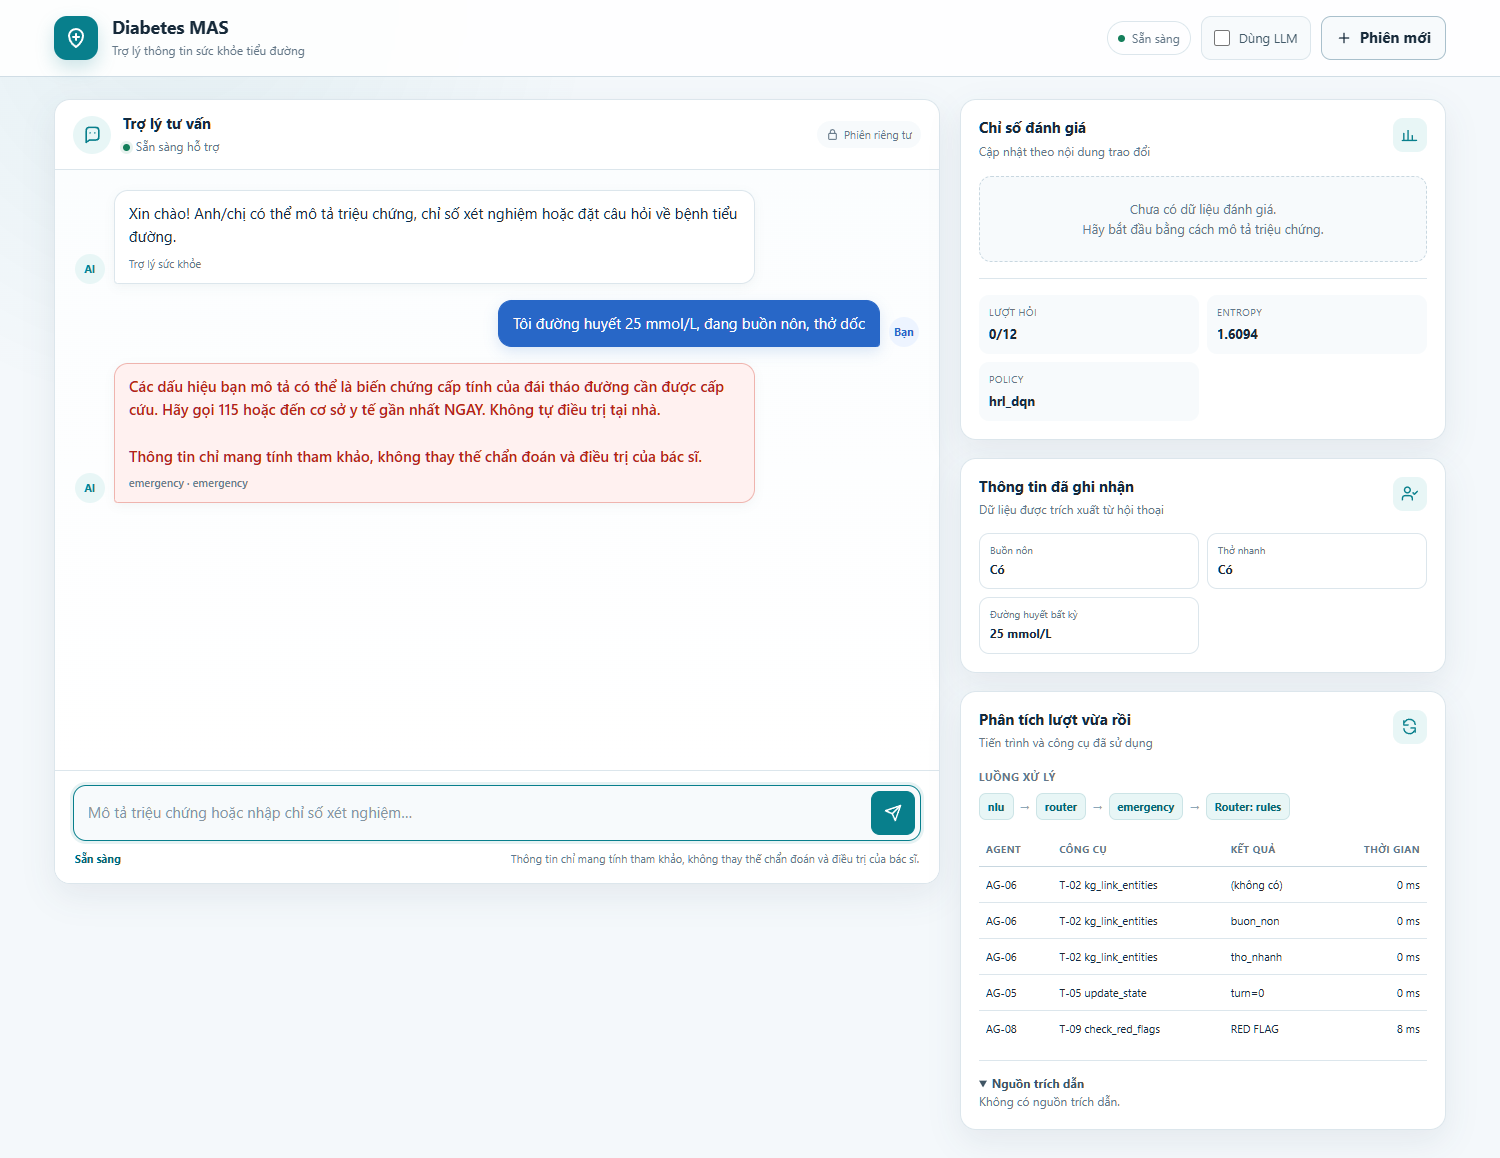
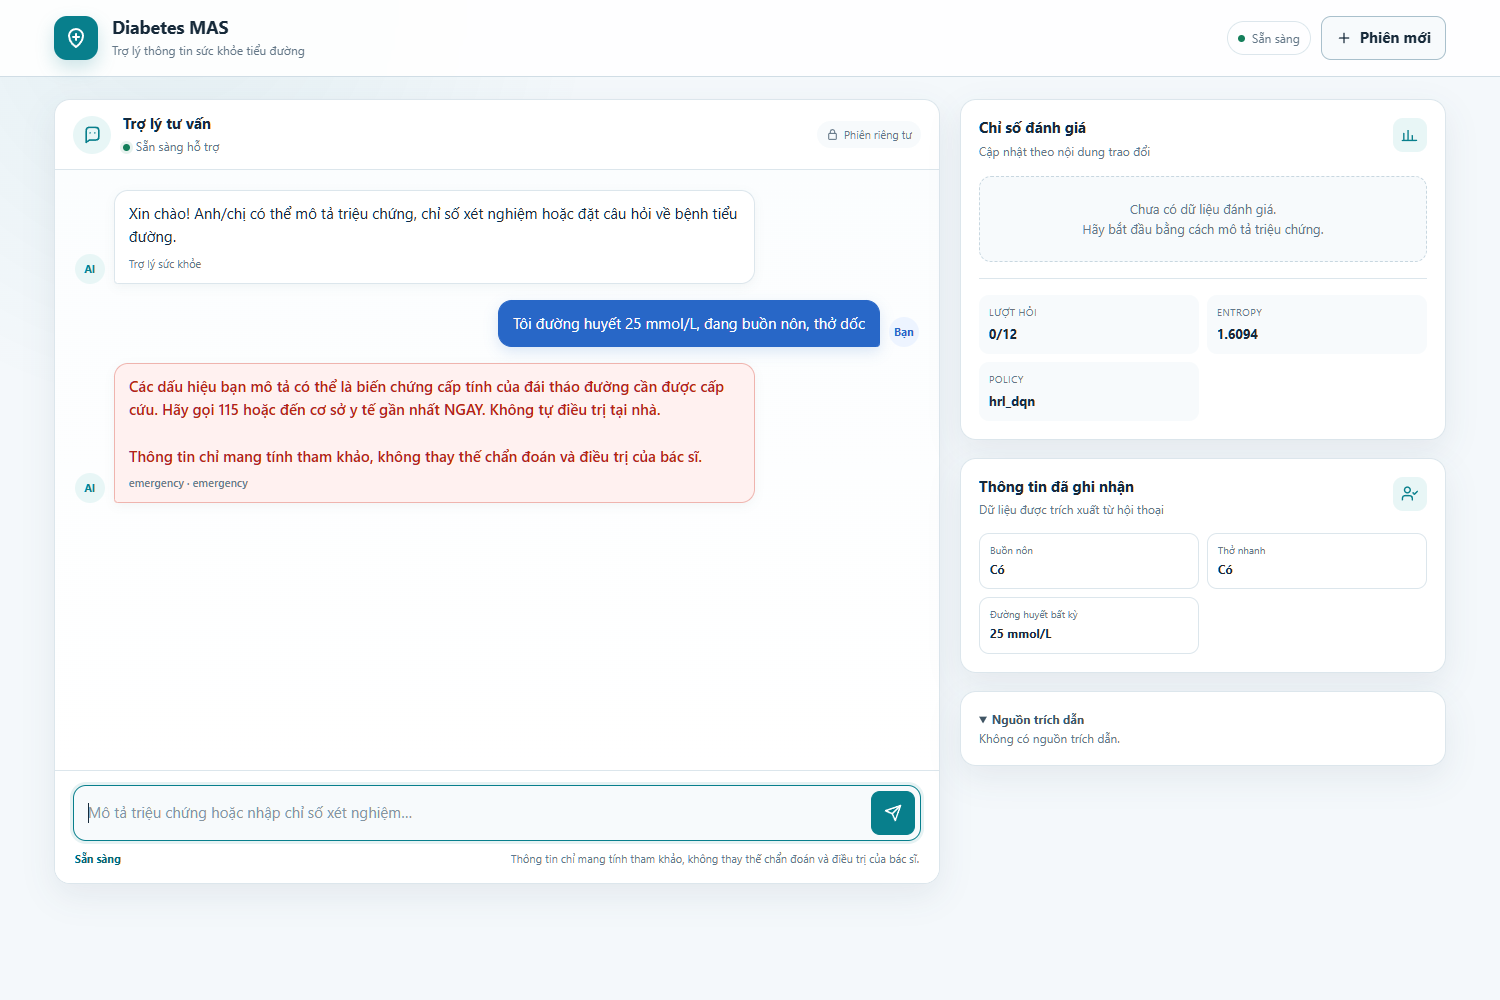
Web demo bản trình diễn: ẩn ô Dùng LLM và khung Phân tích lượt (nhấp tên để hiện; ?llm=0), nhãn Đái tháo đường Loại n; chụp lại ảnh; 09 §2.5 §3

diff --git a/diabetes_mas/src/diabetes_mas/api/static/index.html b/diabetes_mas/src/diabetes_mas/api/static/index.html
@@ -214,7 +214,9 @@
   tbody tr:last-child td { border-bottom:0; }
   td:last-child,th:last-child { text-align:right; white-space:nowrap; }
   .table-empty { color:var(--muted); text-align:center!important; }
+  [hidden] { display:none !important; }
   details { margin-top:14px; padding-top:13px; border-top:1px solid var(--line); }
+  .sources-card details { margin-top:0; padding-top:0; border-top:0; }
   summary { color:#405564; font-size:12px; font-weight:650; cursor:pointer; }
   #sources { color:var(--muted); font-size:12px; }
   #sources p { margin:10px 0 0; }
@@ -257,7 +259,7 @@
     <div class="brand-mark" aria-hidden="true">
       <svg viewBox="0 0 24 24" fill="none" stroke="currentColor" stroke-width="2" stroke-linecap="round" stroke-linejoin="round"><path d="M12 21s7-4.35 7-11a7 7 0 0 0-14 0c0 6.65 7 11 7 11Z"/><path d="M9 11h6M12 8v6"/></svg>
     </div>
-    <div class="brand-copy">
+    <div class="brand-copy" id="brand" title="Nhấp để hiện/ẩn chi tiết kỹ thuật">
       <h1>Diabetes MAS</h1>
       <p>Trợ lý thông tin sức khỏe tiểu đường</p>
     </div>
@@ -266,7 +268,7 @@
         <span class="health-dot" aria-hidden="true"></span>
         <span class="health-label">Đang kiểm tra</span>
       </span>
-      <label class="toggle" title="Bật hoặc tắt mô hình ngôn ngữ">
+      <label class="toggle" id="llmToggle" title="Bật hoặc tắt mô hình ngôn ngữ" hidden>
         <input type="checkbox" id="useLlm" aria-label="Dùng LLM" checked>
         <span>Dùng LLM</span>
       </label>
@@ -333,7 +335,13 @@
       </div>
       <div id="slots" class="empty-state">Chưa ghi nhận thông tin nào.</div>
     </section>
-    <section class="card side-card activity-card" aria-labelledby="activity-title">
+    <section class="card side-card sources-card" aria-labelledby="sources-title">
+      <details>
+        <summary id="sources-title">Nguồn trích dẫn</summary>
+        <div id="sources">Chưa có nguồn trích dẫn.</div>
+      </details>
+    </section>
+    <section class="card side-card activity-card" id="activityCard" aria-labelledby="activity-title" hidden>
       <div class="section-heading">
         <div>
           <h2 id="activity-title">Phân tích lượt vừa rồi</h2>
@@ -353,15 +361,19 @@
           <tbody id="tools"><tr><td class="table-empty" colspan="4">Chưa có dữ liệu</td></tr></tbody>
         </table>
       </div>
-      <details>
-        <summary>Nguồn trích dẫn</summary>
-        <div id="sources">Chưa có nguồn trích dẫn.</div>
-      </details>
     </section>
   </aside>
 </main>
 <script>
-const NAMES = {KHONG_DTD:"Không ĐTĐ",TIEN_DTD:"Tiền ĐTĐ",DTD_TIP_1:"ĐTĐ típ 1",DTD_TIP_2:"ĐTĐ típ 2",DTD_THAI_KY:"ĐTĐ thai kỳ"};
+const NAMES = {KHONG_DTD:"Không đái tháo đường",TIEN_DTD:"Tiền đái tháo đường",DTD_TIP_1:"Đái tháo đường Loại 1",
+  DTD_TIP_2:"Đái tháo đường Loại 2",DTD_THAI_KY:"Đái tháo đường thai kỳ"};
+// Đổi chữ trên lời hệ thống trả lời (KHÔNG áp dụng cho panel nguồn — nguyên văn trích dẫn giữ nguyên).
+// "ĐTĐ" → "Đái tháo đường" (đầu câu) / "đái tháo đường"; "típ" (cả từ, không phải chuỗi con) → "Loại".
+function vn(s) {
+  return String(s == null ? "" : s).normalize("NFC")
+    .replace(/ĐTĐ/g,(m,off,str) => (off === 0 || /[.:!?\n]\s*$/.test(str.slice(0,off))) ? "Đái tháo đường" : "đái tháo đường")
+    .replace(/(^|[^\p{L}\p{M}])[Tt]íp(?![\p{L}\p{M}])/gu,"$1Loại");
+}
 const SLOT_NAMES = {
   tuoi:"Tuổi",bmi:"BMI",gioi_tinh:"Giới tính",hut_thuoc:"Hút thuốc",benh_tim:"Bệnh tim",
   dang_mang_thai:"Mang thai",uong_nhieu:"Khát / uống nhiều",tieu_nhieu:"Tiểu nhiều",sut_can:"Sụt cân",
@@ -373,7 +385,7 @@ const SLOT_NAMES = {
   dau_cach_hoi:"Đau cách hồi chi dưới",day_bung_cham_tieu:"Đầy bụng, chậm tiêu",
   loet_ban_chan:"Loét bàn chân",te_bi_ban_chan:"Tê bì bàn chân",
   it_van_dong:"Ít vận động",tang_huyet_ap:"Tăng huyết áp",roi_loan_lipid:"Rối loạn mỡ máu",
-  tien_su_gia_dinh_dtd:"Gia đình có người mắc ĐTĐ",tien_su_dtd_thai_ky:"Tiền sử ĐTĐ thai kỳ",
+  tien_su_gia_dinh_dtd:"Gia đình có người mắc đái tháo đường",tien_su_dtd_thai_ky:"Tiền sử đái tháo đường thai kỳ",
   benh_tu_mien:"Bệnh tự miễn khác",buong_trung_da_nang:"Buồng trứng đa nang",
   bmi_tu_23:"BMI ≥ 23",tuoi_duoi_30:"Khởi phát dưới 30 tuổi",tuoi_tu_45:"Tuổi ≥ 45"
 };
@@ -583,7 +595,7 @@ $("form").addEventListener("submit",async (event) => {
     });
     if (!response.ok) throw new Error(await apiError(response));
     const result = await response.json();
-    bot(result.reply,(result.intent || "Phản hồi") + " · " + result.stage,result.stage === "emergency" ? "emergency" : "");
+    bot(vn(result.reply),(result.intent || "Phản hồi") + " · " + result.stage,result.stage === "emergency" ? "emergency" : "");
     render(result);
   } catch (error) {
     if (error.name === "AbortError" && !timedOut) return;
@@ -600,6 +612,19 @@ $("form").addEventListener("submit",async (event) => {
     }
   }
 });
+
+// Bản trình diễn: ẩn ô "Dùng LLM" (mặc định bật) và khung "Phân tích lượt vừa rồi".
+// Hiện lại cả hai: nhấp vào tên "Diabetes MAS" (nhấp lần nữa để ẩn) hoặc mở URL có ?chitiet.
+// Dự phòng tắt LLM: mở http://localhost:8000/?llm=0 (hoặc hiện ô rồi bỏ chọn).
+function toggleDetails(force) {
+  const show = force === undefined ? $("activityCard").hidden : force;
+  $("activityCard").hidden = !show;
+  $("llmToggle").hidden = !show;
+}
+const params = new URLSearchParams(window.location.search);
+if (params.get("llm") === "0") $("useLlm").checked = false;
+if (params.has("chitiet")) toggleDetails(true);
+$("brand").addEventListener("click",() => toggleDetails());
 
 $("newBtn").addEventListener("click",() => {
   newSession().catch(() => bot("Không thể tạo phiên mới. Vui lòng thử lại.","Lỗi kết nối","emergency"));

diff --git a/docs/09_DEMO_SCRIPT.md b/docs/09_DEMO_SCRIPT.md
@@ -4,7 +4,13 @@
 > **Giai đoạn:** 9 · **Cập nhật:** 2026-11-12 (v2: chạy thử trên máy demo, Windows 11 / 16 GB RAM / chỉ CPU)
 > Tổng thời lượng dự kiến: 15 phút.
 
-> **Trạng thái triển khai (2026-11-12): ✅ đã chạy thử** — phản hồi ở §2 lấy từ lần chạy thử với `use_llm=false` (luật + câu mẫu). Bật Qwen thì câu chữ hỏi/giải thích tự nhiên hơn nhưng kết luận, xác suất và nguồn giống nhau. ✅ Đã chạy thử có bấm giờ qua API cả hai chế độ (§2.6). ⏳ Còn chạy thử trên giao diện web mới và quay video dự phòng.
+> **Trạng thái triển khai (2026-11-12): ✅ đã chạy thử** — phản hồi ở §2 lấy từ lần chạy thử với `use_llm=false` (luật + câu mẫu). Bật Qwen thì câu chữ hỏi/giải thích tự nhiên hơn nhưng kết luận, xác suất và nguồn giống nhau. ✅ Đã chạy thử có bấm giờ qua API cả hai chế độ (§2.6). ✅ Đã chạy thử trên giao diện web mới với Qwen (§2.6.1, §2.5). ⏳ Còn quay video dự phòng.
+>
+> **Giao diện trình diễn (22:30, theo yêu cầu người dùng):**
+> - Ô "Dùng LLM" và khung "Phân tích lượt vừa rồi" (luồng agent + bảng tool call) được ẩn. LLM luôn bật.
+> - **Nhấp vào tên "Diabetes MAS"** ở góc trái trên để hiện lại cả hai; nhấp lần nữa để ẩn.
+> - Nhãn giao diện và lời chat hiển thị "Đái tháo đường Loại 2" thay cho "ĐTĐ típ 2". Panel **Nguồn trích dẫn** (nay là khung riêng, luôn hiện) giữ **nguyên văn** nguồn, nên vẫn ghi "típ".
+> - Backend, API và log không đổi.
 
 ---
 
@@ -56,7 +62,7 @@ Mở sẵn các tab: Web demo `http://localhost:8000` · Neo4j Browser `http://l
 | 6 | 2′ | Đa agent phân cấp: Main + 4 Work-Agent, reward entropy, luật điều phối "chưa có xét nghiệm thì chưa kết luận" | Giải thích kiến trúc đa agent | `02_AGENT_DESIGN.md` mục 1–2, 6 |
 | 7 | 2′ | Demo tư vấn: TC-20, TC-22, TC-23 (§2.2) | Demo KB + RAG | Web demo, mở panel "nguồn" và "tool call" |
 | 8 | 1′ | RAG giao tiếp với KB: liên kết thực thể → graph fact → vector + chunk MENTIONS → `enough` | Cơ chế RAG ↔ KB | `06_KB_RAG_INTEGRATION.md` mục 2 + `08_EVALUATION.md` §3 (biểu đồ ngưỡng) |
-| 9 | 2′ | Demo chẩn đoán: Story 1 (§2.1), rồi ca cấp cứu (§2.3) | Demo end-to-end | Web demo, chỉ bảng slot, xác suất, entropy, log tool |
+| 9 | 2′ | Demo chẩn đoán: Story 1 (§2.1), rồi ca cấp cứu (§2.3) | Demo end-to-end | Web demo, chỉ bảng slot, xác suất, entropy (khung "Chỉ số đánh giá"), log tool (**nhấp "Diabetes MAS"** để hiện bảng tool call, có dòng T-15) |
 | 10 | 1′ | Mô hình: layer, epoch, đường học, bảng baseline | Mô hình bổ sung | `09_MODEL_NOTES.md`, `08_EVALUATION.md` §4 (`assets/curve_hrl.png`) |
 
 ## 2. Câu nói mẫu và phản hồi đã chạy thử
@@ -91,12 +97,20 @@ Mở sẵn các tab: Web demo `http://localhost:8000` · Neo4j Browser `http://l
 
 "Tôi đang mang thai 28 tuần, đường huyết lúc đói 5,3 mmol/L, có bị tiểu đường thai kỳ không?" ⇒ hỏi tuổi, chiều cao/cân nặng (không hỏi giới tính), rồi **~6 câu triệu chứng/nguy cơ** (trả lời "Không ạ") ⇒ "Đái tháo đường thai kỳ (95%) … Glucose huyết tương lúc đói = 5,3 (ngưỡng ≥ 5,1 mmol/L, nguồn VMC-0003)". Giới hạn đã biết: ca thai kỳ cần nhiều lượt (`08` §7).
 
-### 2.5 Ảnh minh họa (chụp lại 2026-11-12 20:45 với giao diện mới, chế độ không LLM, `diabetes_mas/scripts/shots.js` bằng puppeteer: `NODE_PATH=<node_modules có puppeteer> node scripts/shots.js ../docs/assets --no-llm`)
+### 2.5 Ảnh minh họa (chụp lại 2026-11-12 22:35 với giao diện trình diễn)
+
+Ảnh chụp bằng Chrome headless (puppeteer, script kiểm tra ở scratchpad phiên này):
+
+- Story 1 chạy với Qwen.
+- TC-20 và TC-34 chạy với `?llm=0`.
+
+`scripts/shots.js` cũ bấm vào ô `#useLlm`, nay ô này đã ẩn. Vì vậy chỉ chạy được khi không truyền `--no-llm`.
 
 | Ảnh | Nội dung |
 |---|---|
-| `assets/demo_story1.png` | Story 1 (giao diện mới 20:45): khung chat bên trái; bên phải **Chỉ số đánh giá** (xác suất 5 lớp — típ 2 63 %, lượt hỏi 1/12, entropy 0,66, nguy cơ DL 100 %, policy `hrl_dqn`), **Thông tin đã ghi nhận** (slot: uống nhiều, tiểu nhiều, sụt cân, 52 tuổi, BMI 28,7, nam, HbA1c 7,1 %), **Phân tích lượt vừa rồi** (luồng `nlu → router → tracker → main`, bảng tool call có T-08, **T-15**, T-03, T-04, T-09) và **Nguồn trích dẫn** [1]–[10] |
-| `assets/demo_tuvan.png` | TC-20: 4 tiêu chuẩn chẩn đoán kèm `[n]` (QĐ 3280, Vinmec), luồng `nlu → router → consult`, T-04 `enough=True`, panel nguồn |
+| `assets/demo_story1.png` | Story 1, giao diện trình diễn. Bên trái là khung chat, kết luận "Đái tháo đường Loại 2 (63%)". Bên phải gồm: **Chỉ số đánh giá** (xác suất 5 lớp — Loại 2 63 %, Loại 1 37 %; lượt hỏi 1/12; entropy 0,66; nguy cơ DL 100 %; policy `hrl_dqn`), **Thông tin đã ghi nhận** (slot: uống nhiều, tiểu nhiều, sụt cân, 52 tuổi, BMI 28,7, nam, HbA1c 7,1 %) và **Nguồn trích dẫn** [1]–[10] (nguyên văn) |
+| `assets/demo_story1_chitiet.png` | Cùng Story 1 sau khi nhấp "Diabetes MAS". Hiện thêm ô "Dùng LLM" và khung **Phân tích lượt vừa rồi**: luồng `nlu → router → tracker → main`, bảng tool call có T-08, **T-15**, T-03, T-04, T-09 |
+| `assets/demo_tuvan.png` | TC-20 (`?llm=0`): tiêu chuẩn chẩn đoán kèm `[n]` (QĐ 3280, Vinmec), panel nguồn |
 | `assets/demo_capcuu.png` | TC-34: cảnh báo cấp cứu (khung đỏ) ngay lượt đầu; slot Buồn nôn, Thở nhanh, Đường huyết bất kỳ 25 mmol/L; T-09 `RED FLAG` |
 | `assets/kb_dtd_tip2.png`, `assets/kb_schema.png` | Thay ảnh Neo4j Browser nếu không mở được (vẽ từ dữ liệu Neo4j thật, `devtools/plot_kb`) |
 
@@ -151,14 +165,14 @@ Kết luận:
 
 | Sự cố | Dấu hiệu | Xử lý |
 |---|---|---|
-| **Qwen chậm / thiếu RAM** | Một lượt > 30 s, máy giật | **Chuyển chế độ không LLM**: trong web demo **bỏ chọn ô "Dùng LLM (Qwen)"** (gửi `use_llm: false`; `api/static/index.html`); hoặc gọi API trực tiếp: `curl -X POST localhost:8000/v1/sessions/<id>/messages -H "Content-Type: application/json" -d "{\"text\": \"…\", \"use_llm\": false}"`. Hệ chạy bằng luật + câu mẫu + trả lời trích xuất — kết luận, xác suất, nguồn không đổi (§2 chạy thử ở chế độ này) |
-| **Lượt kết luận ở chế độ Qwen nghi ngờ sai số liệu** | Câu giải thích có con số khác với số người dùng đã gõ | Bỏ chọn ô **"Dùng LLM"** trước khi gõ câu xét nghiệm cuối (Story 1 lượt 5): kết luận dùng template — đúng số, đúng nguồn, như §2.1. Hệ đã tự chặn số lạ có đơn vị (`numbers_ok`, `07` §6 #15) |
+| **Qwen chậm / thiếu RAM** | Một lượt > 30 s, máy giật | **Chuyển chế độ không LLM**. Trong web demo, ô "Dùng LLM" đang ẩn, có hai cách:<br>(1) Gõ địa chỉ **`http://localhost:8000/?llm=0`** rồi Enter. Trang mở phiên mới và gửi `use_llm: false`; đã thử thật lúc 22:35, request gửi `use_llm=false`.<br>(2) **Nhấp "Diabetes MAS"** để hiện ô, rồi bỏ chọn ô "Dùng LLM". Cách này giữ nguyên phiên đang chạy.<br>Cũng có thể gọi API trực tiếp: `curl -X POST localhost:8000/v1/sessions/<id>/messages -H "Content-Type: application/json" -d "{\"text\": \"…\", \"use_llm\": false}"`. Hệ chạy bằng luật + câu mẫu + trả lời trích xuất — kết luận, xác suất, nguồn không đổi (§2 chạy thử ở chế độ này) |
+| **Lượt kết luận ở chế độ Qwen nghi ngờ sai số liệu** | Câu giải thích có con số khác với số người dùng đã gõ | Nhấp **"Diabetes MAS"** rồi bỏ chọn ô **"Dùng LLM"** trước khi gõ câu xét nghiệm cuối (Story 1 lượt 5): kết luận dùng template — đúng số, đúng nguồn, như §2.1. Hệ đã tự chặn số lạ có đơn vị (`numbers_ok`, `07` §6 #15) |
 | Ollama tắt hẳn | `/v1/health` báo Ollama lỗi | Hệ tự dùng dự phòng (NLU/Router luật, NLG câu mẫu, Consult trích xuất) — không cần làm gì; nói rõ khi demo |
 | Neo4j lỗi | Câu tư vấn trả "Hệ thống tra cứu đang tạm gián đoạn" | `docker compose restart neo4j`, chờ healthcheck (~30 s). Còn hỏng: nạp dump `neo4j-admin database load` (⏳ tạo dump khi sao lưu) |
 | Web demo lỗi | Trang trắng / 500 | Chiếu log mẫu `logs/agent_runs/samples/demo-story1-chan-doan.md`, `demo-story3-tu-van.md`, `demo-story5-cap-cuu.md` hoặc video dự phòng |
 | Mất mạng | — | Không ảnh hưởng (chỉ AG-12 tìm web cần mạng; câu demo không cần) |
 
-`use_llm` mặc định `true` (ô được chọn sẵn). Thanh trạng thái trên web demo hiện `Neo4j ✓ · Ollama ✓ (qwen2.5:3b) · classifier ✓ · HRL ✓ · DL ✓` — kiểm tra trước khi bắt đầu.
+`use_llm` mặc định `true` (ô được chọn sẵn, đang ẩn; `?llm=0` để tắt). URL `?chitiet` mở sẵn khung chi tiết. Thanh trạng thái trên web demo hiện `Neo4j ✓ · Ollama ✓ (qwen2.5:3b) · classifier ✓ · HRL ✓ · DL ✓` — kiểm tra trước khi bắt đầu.
 
 ## 4. Câu hỏi giám khảo có thể hỏi
 

diff --git a/docs/HANDOFF.md b/docs/HANDOFF.md
@@ -121,6 +121,14 @@ Môi trường:
 - **Chạy thử có bấm giờ (09 §2.6):** Qwen tổng 79,6 s (Story 1: 16,1 / 2,6 / 2,4 / 2,6 / 12,9 s; TC-20 20,9; TC-22 14,5; TC-23 4,6; TC-34 3,0); không LLM 19,2 s. 9/9 đạt. Đo khi RAM chỉ trống ~1,4 GB.
 - `pytest -m "not network and not slow"`: **187 passed** (20:09). Nhóm `slow`: xem dòng dưới.
 - **Giao diện web mới** (Codex vẽ lại, commit `063d4c2`, bổ sung tên slot `ce73956`): chat; xác suất 5 lớp; lượt hỏi/T_max; entropy; nguy cơ DL; policy; bảng slot; luồng agent; bảng tool call (có T-15); nguồn trích dẫn; ô "Dùng LLM" chọn sẵn. Gọi `/v1/sessions`, `/messages`, `/health`. `test_web_ui.py` 2 passed. Ảnh `demo_story1/tuvan/capcuu.png` chụp lại 20:45 (`scripts/shots.js --no-llm`, puppeteer ở scratchpad phiên trước: `NODE_PATH=C:/Users/ADMIN/AppData/Local/Temp/claude/6caf4ef6f1158feb/be9b0b5f-4776-45bd-b441-7eb3513194db/scratchpad/node_modules`). File tạm Codex chưa commit: `.ui_check.py`, `.ui-*.png`, `.browser-profile-ui/`, `.codex/`, `.pytest-ui-*`.
+- **Giao diện trình diễn (22:30, sau đóng băng, người dùng yêu cầu trực tiếp, đã báo phiên quản lý; chỉ sửa `index.html`):**
+  - Ẩn ô "Dùng LLM" (LLM luôn bật) và khung "Phân tích lượt vừa rồi".
+  - **Nhấp "Diabetes MAS"** để hiện hoặc ẩn lại. `?llm=0` để tắt LLM, `?chitiet` để mở sẵn khung chi tiết.
+  - "Nguồn trích dẫn" tách thành khung riêng, luôn hiện.
+  - Nhãn và lời chat đổi "ĐTĐ" thành "Đái tháo đường", "típ" thành "Loại"; panel nguồn giữ nguyên văn.
+  - Kiểm tra trên Chrome: mọi mục OK, gồm cả request `use_llm=false` khi mở `?llm=0`. `test_web_ui` 2 passed.
+  - Ảnh `demo_story1/_chitiet/tuvan/capcuu.png` chụp lại (09 §2.5).
+  - Quay lại bản đóng băng: `git checkout demo-freeze -- diabetes_mas/src/diabetes_mas/api/static/index.html`.
 - **pytest:** nhóm nhanh **190 passed** (20:49, gồm `test_web_ui` và `test_numbers_ok_*`); nhóm `slow` 10 passed, 1 xfailed TC-21 (20:43; TC-35 mất 1.299 s khi thiếu RAM — bình thường vài phút).
 - `curl` trong Git Bash làm hỏng tiếng Việt trong body JSON ⇒ dùng `scripts/rehearse_demo.py` hoặc Python `requests`.
 
